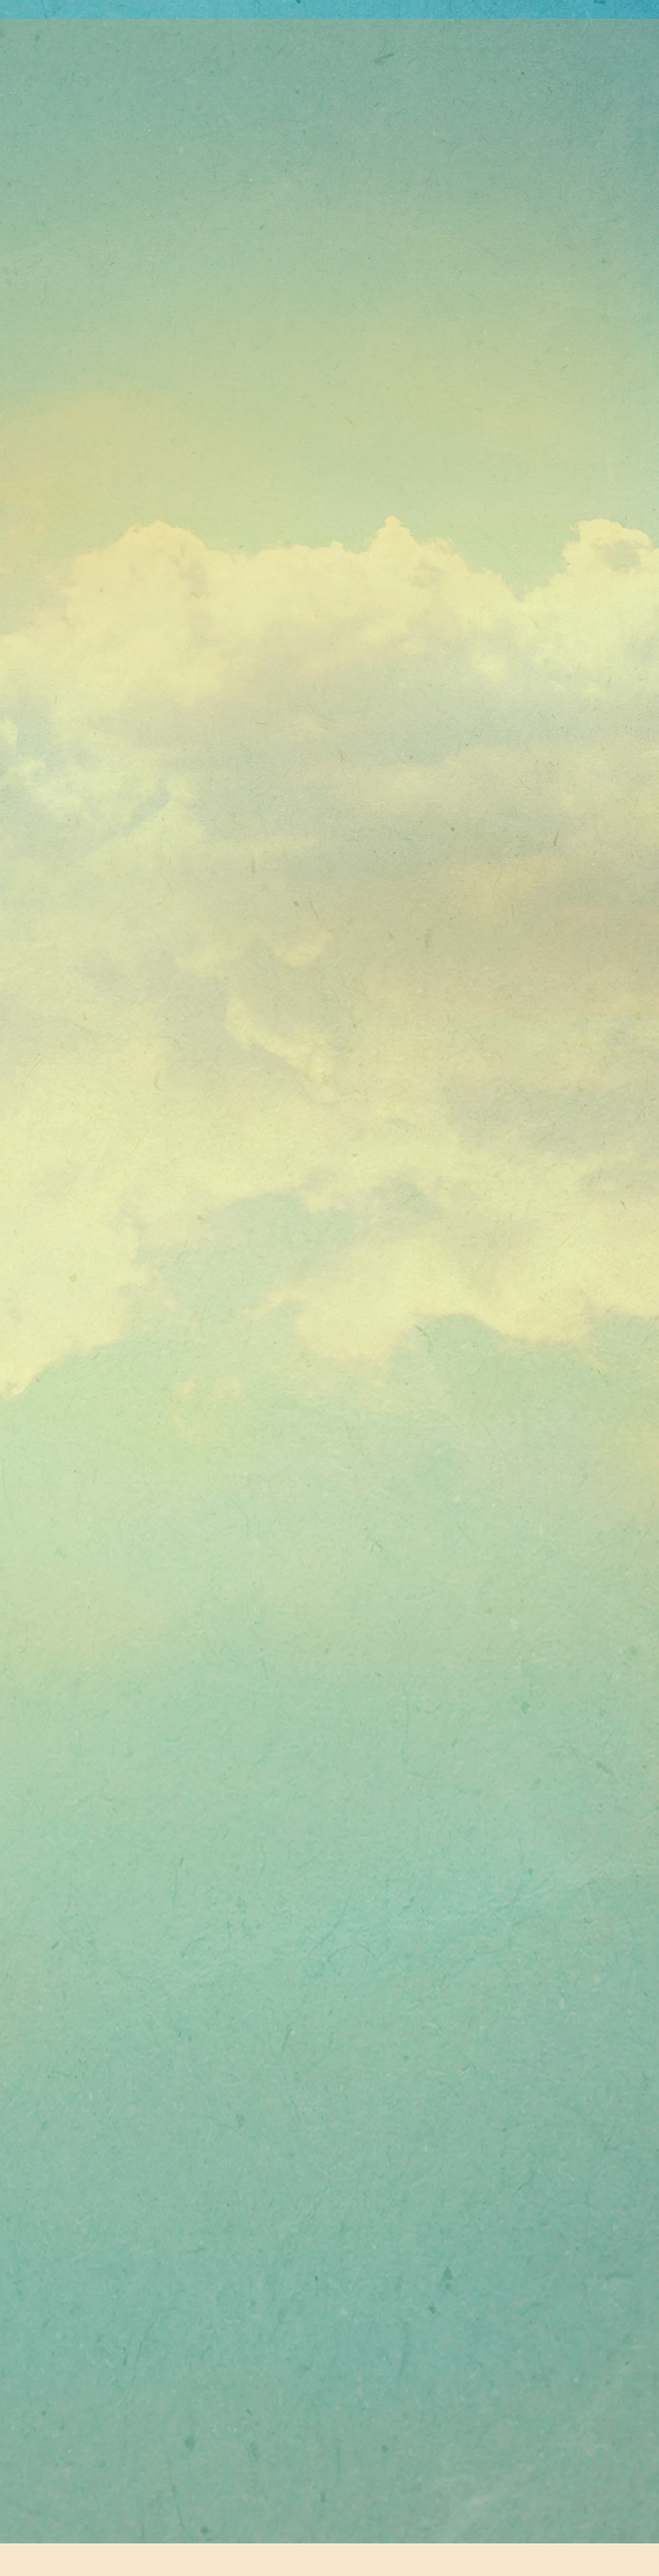
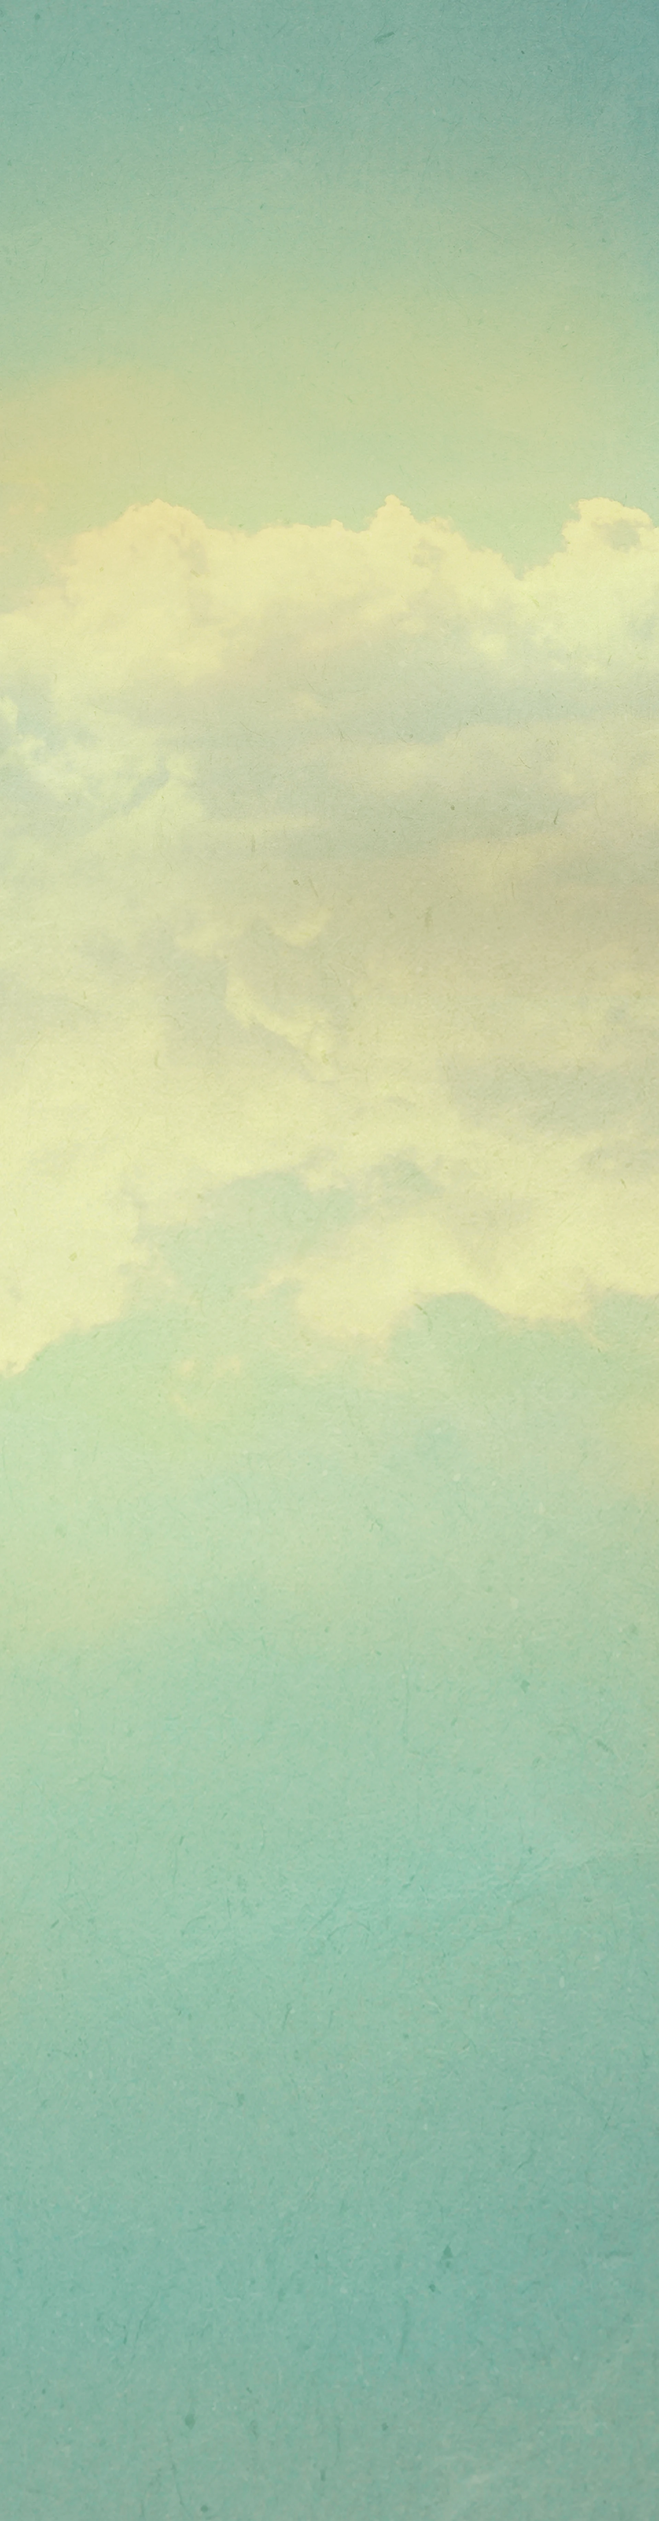
laid out site

Changed region(s): [[0.0, 0.9664, 1.0, 1.0], [0.0, 0.0, 1.0, 0.0312], [0.9062, 0.187, 0.9688, 0.2182]]

diff --git a/src/components/event-details/eventDetails.module.scss b/src/components/event-details/eventDetails.module.scss
@@ -1,0 +1,55 @@
+
+.event_details {
+  margin-top: 200px;
+  .title {
+    font-size: 75px;
+    font-weight: 700;
+    margin-bottom: 60px;
+  }
+  text-align: center;
+
+  .dress_code {
+    min-height: 900px;
+
+
+    .jellyfish_decor {
+      &::before {
+        top: 0;
+        left: -50px;
+        position: absolute;
+        content: '';
+        width: 400px;
+        height: 700px;
+        background-image: url("../../assets/jellyfich-left.webp");
+        background-repeat: no-repeat;
+        background-size: contain;
+      }
+
+      &::after {
+        top: -200px;
+        right: -200px;
+        position: absolute;
+        content: '';
+        width: 400px;
+        height: 500px;
+        background-image: url("../../assets/jellyfich-right.webp");
+        background-repeat: no-repeat;
+        background-size: contain;
+      }
+    }
+  }
+  .partners{
+    min-height: 900px;
+  }
+  .info_partner{
+    min-height: 500px;
+
+    .info_partner_text{
+      font-size: 95px;
+      font-weight: 800;
+      color: #1c1c1c;
+    }
+  }
+
+
+}

diff --git a/src/App.jsx b/src/App.jsx
@@ -3,8 +3,9 @@ import { Header } from "./components/header/Header.jsx";
 import {Top} from "./components/top/Top.jsx";
 import {Profile} from "./components/profile/Profile.jsx";
 import {Info} from "./components/info/Info.jsx";
-import {DressCode} from "./components/dress-code/DressCode.jsx";
+import {EventDetails} from "./components/event-details/EventDetails.jsx";
 import omniWorld from './assets/omniverse-world.webp'
+import {Footer} from "./components/footer/Footer.jsx";
 
 function App() {
 
@@ -16,9 +17,9 @@ function App() {
         <Top/>
         <Profile/>
         <Info/>
-        {/*<div className={styles.omniWorld}/>*/}
         <img className={styles.omniWorld} src={omniWorld} alt=""/>
-        <DressCode/>
+        <EventDetails/>
+        <Footer/>
       </div>
     </div>
   )

diff --git a/src/components/event-details/EventDetails.jsx b/src/components/event-details/EventDetails.jsx
@@ -1,0 +1,25 @@
+import styles from './eventDetails.module.scss'
+
+
+export const EventDetails = () => {
+
+  return (
+    <div className={styles.event_details}>
+
+      <div className={'container'}>
+        <div className={styles.dress_code}>
+          <h2 className={styles.title}>ДРЕСС-КОД</h2>
+          <div className={styles.jellyfish_decor}/>
+        </div>
+        <div className={styles.partners}>
+          <h2 className={styles.title}>ПАРТНЕРЫ<br/>МЕРОПРИЯТИЯ</h2>
+        </div>
+        <div className={styles.info_partner}>
+          <h2 className={styles.title}>ИНФОРМАЦИОННЫЙ<br/>ПАРТНЕР</h2>
+          <p className={styles.info_partner_text}>Sostav</p>
+        </div>
+
+      </div>
+    </div>
+  );
+};

diff --git a/src/components/footer/footer.module.scss b/src/components/footer/footer.module.scss
@@ -1,0 +1,28 @@
+
+.footer{
+
+  //width: 100%;
+  //position: absolute;
+  //bottom: 200px;
+  .img_wrapper{
+    display: flex;
+    flex-direction: column;
+    .footer_img{
+      //object-position: 50% 80px;
+      width: 100%;
+    }
+    .footer_text {
+      height: 120px;
+      padding: 40px 0;
+      width: 100%;
+      background: #1c1c1c;
+      color: #fff;
+      font-weight: 700;
+      background-image: url("../../assets/izmeni_soznanie.png");
+      background-repeat: repeat-x; /* Повтор только по горизонтали */
+      background-size: auto 80px; /* Авто-ширина, высота = высоте блока */
+      background-position:0 50%;
+    }
+  }
+
+}

diff --git a/src/components/footer/Footer.jsx b/src/components/footer/Footer.jsx
@@ -1,0 +1,18 @@
+import styles from './footer.module.scss'
+import footer from '../../assets/footer-image.webp'
+
+
+export const Footer = () => {
+
+  return (
+    <footer className={styles.footer}>
+
+      <div className={styles.img_wrapper}>
+        <img className={styles.footer_img} src={footer} alt=""/>
+        <p className={styles.footer_text}>
+          {/*IZMENI SOZNANIE*/}
+        </p>
+      </div>
+    </footer>
+  );
+};

diff --git a/src/App.module.scss b/src/App.module.scss
@@ -15,7 +15,7 @@
     background-image: url("./assets/bg.webp");
     background-repeat: no-repeat;
     background-size: cover;
-    background-position: 0 -100px;
+    //background-position: 0 -100px;
 
     .omniWorld{
       width: 100%;

diff --git a/src/index.css b/src/index.css
@@ -196,4 +196,5 @@ img{
     margin: 0 auto;
     padding: 0 40px;
     height: 100%;
+    position: relative;
 }
